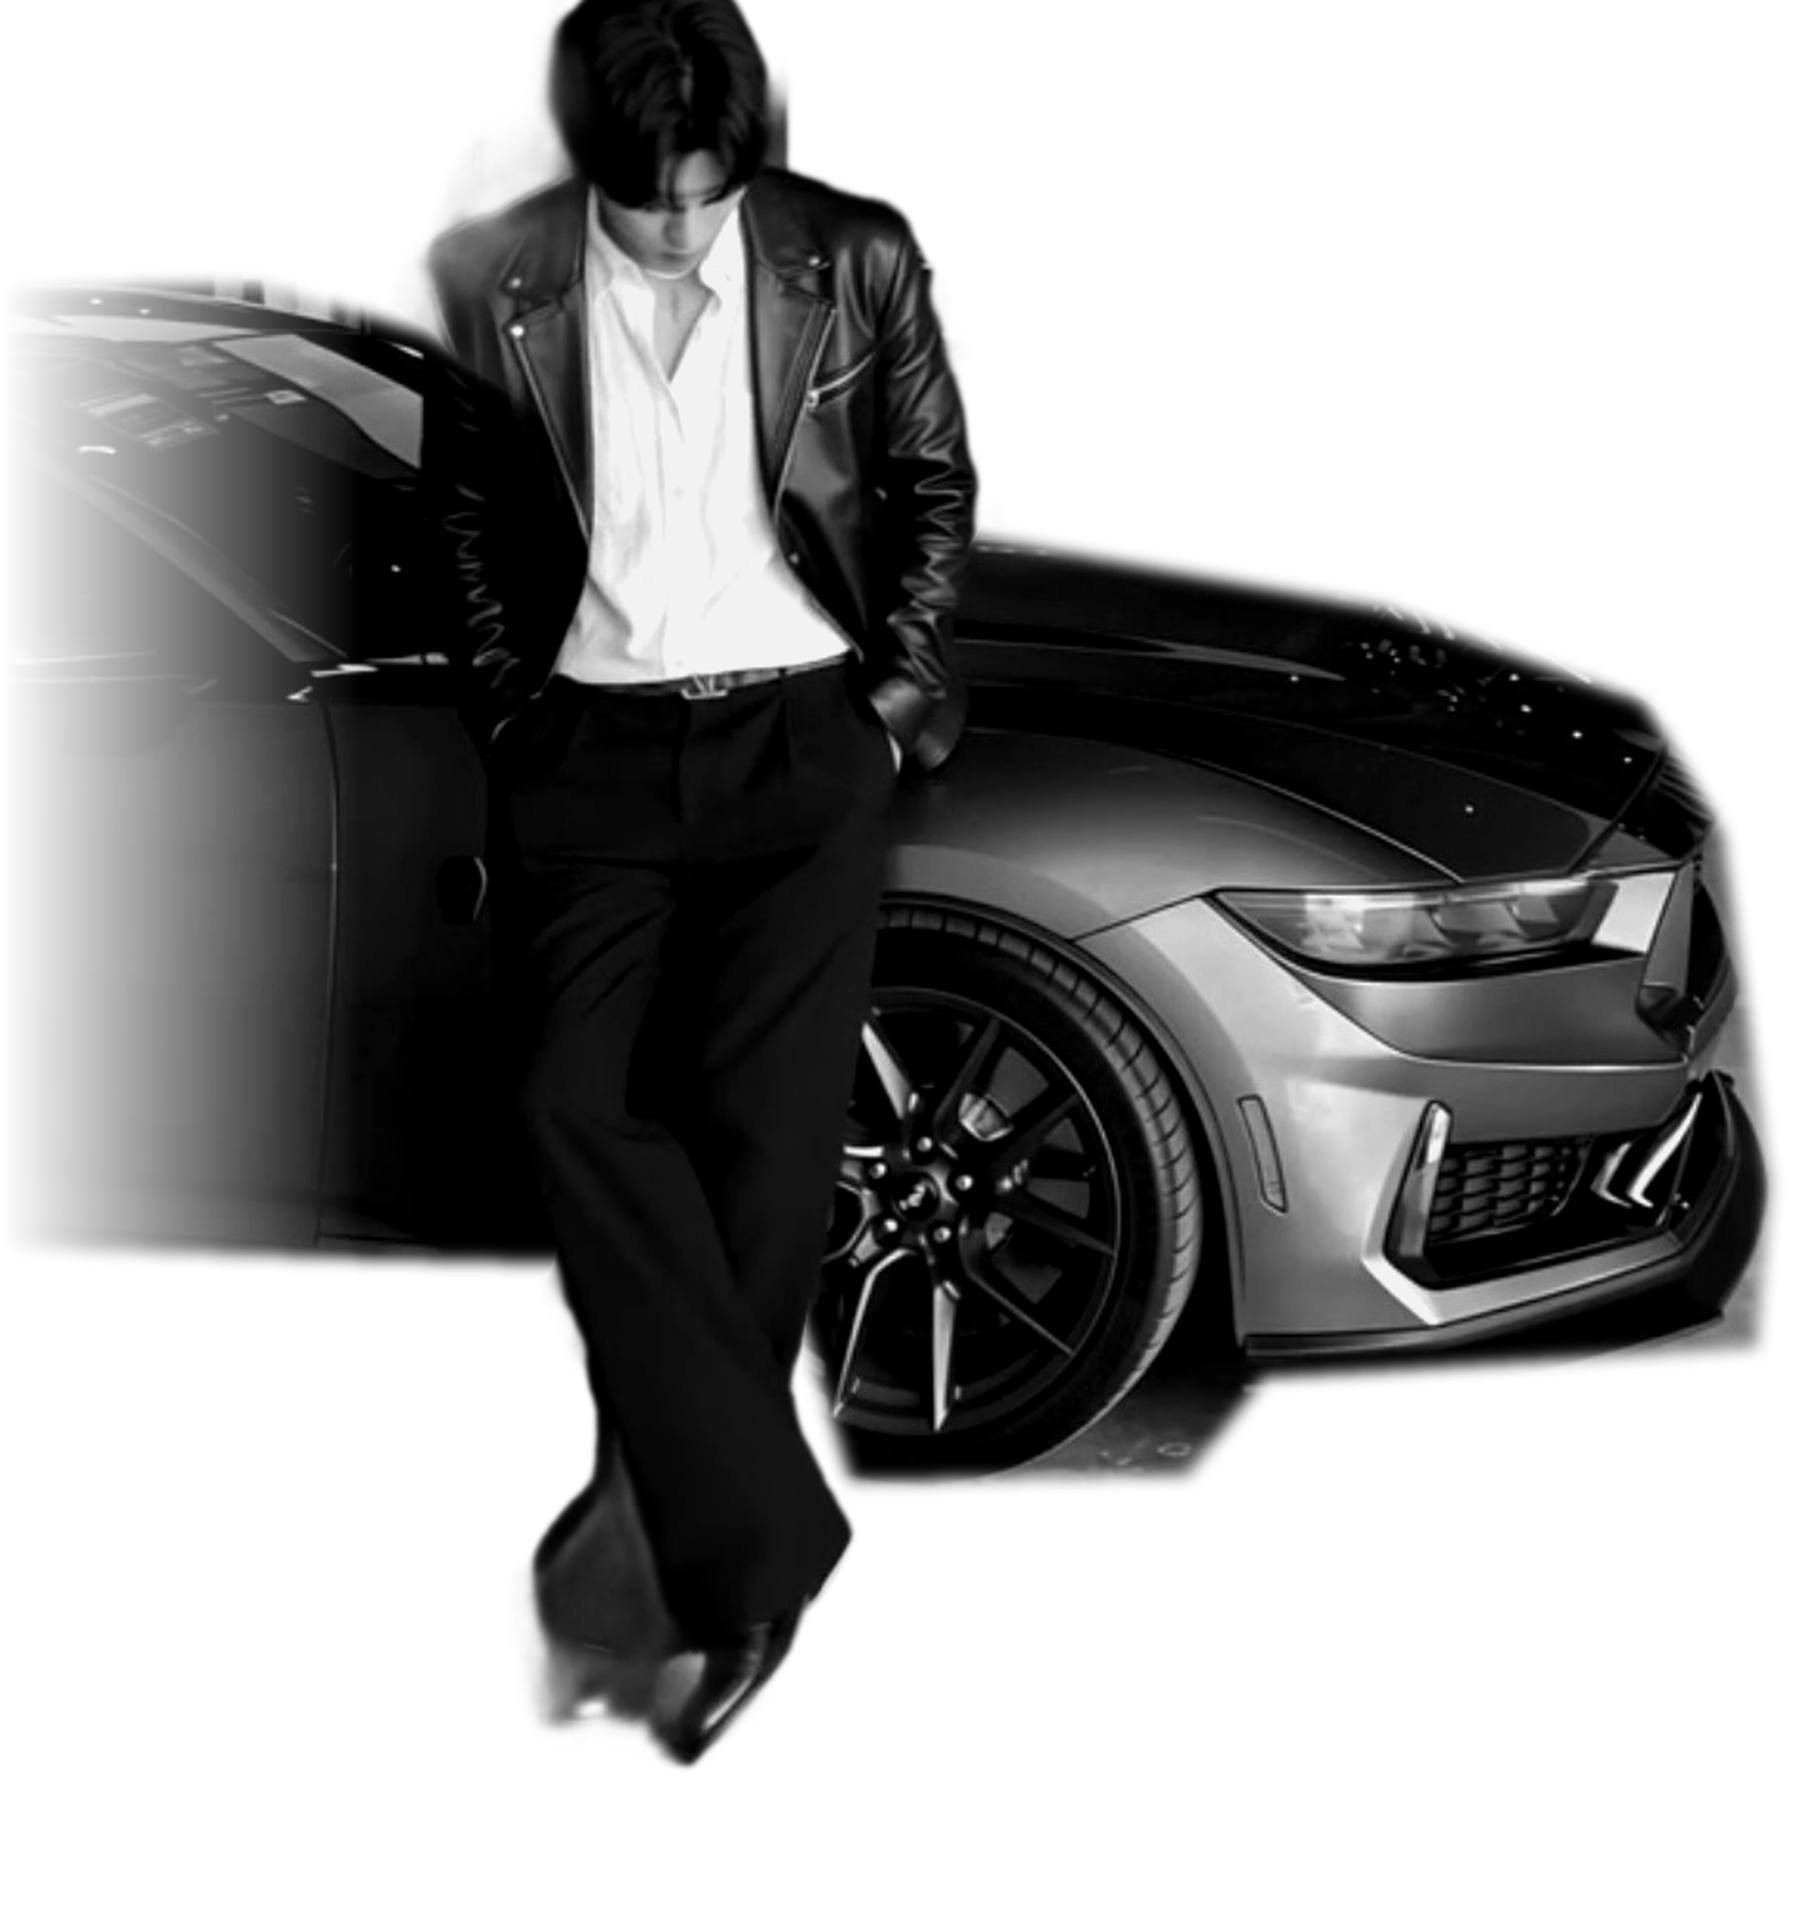
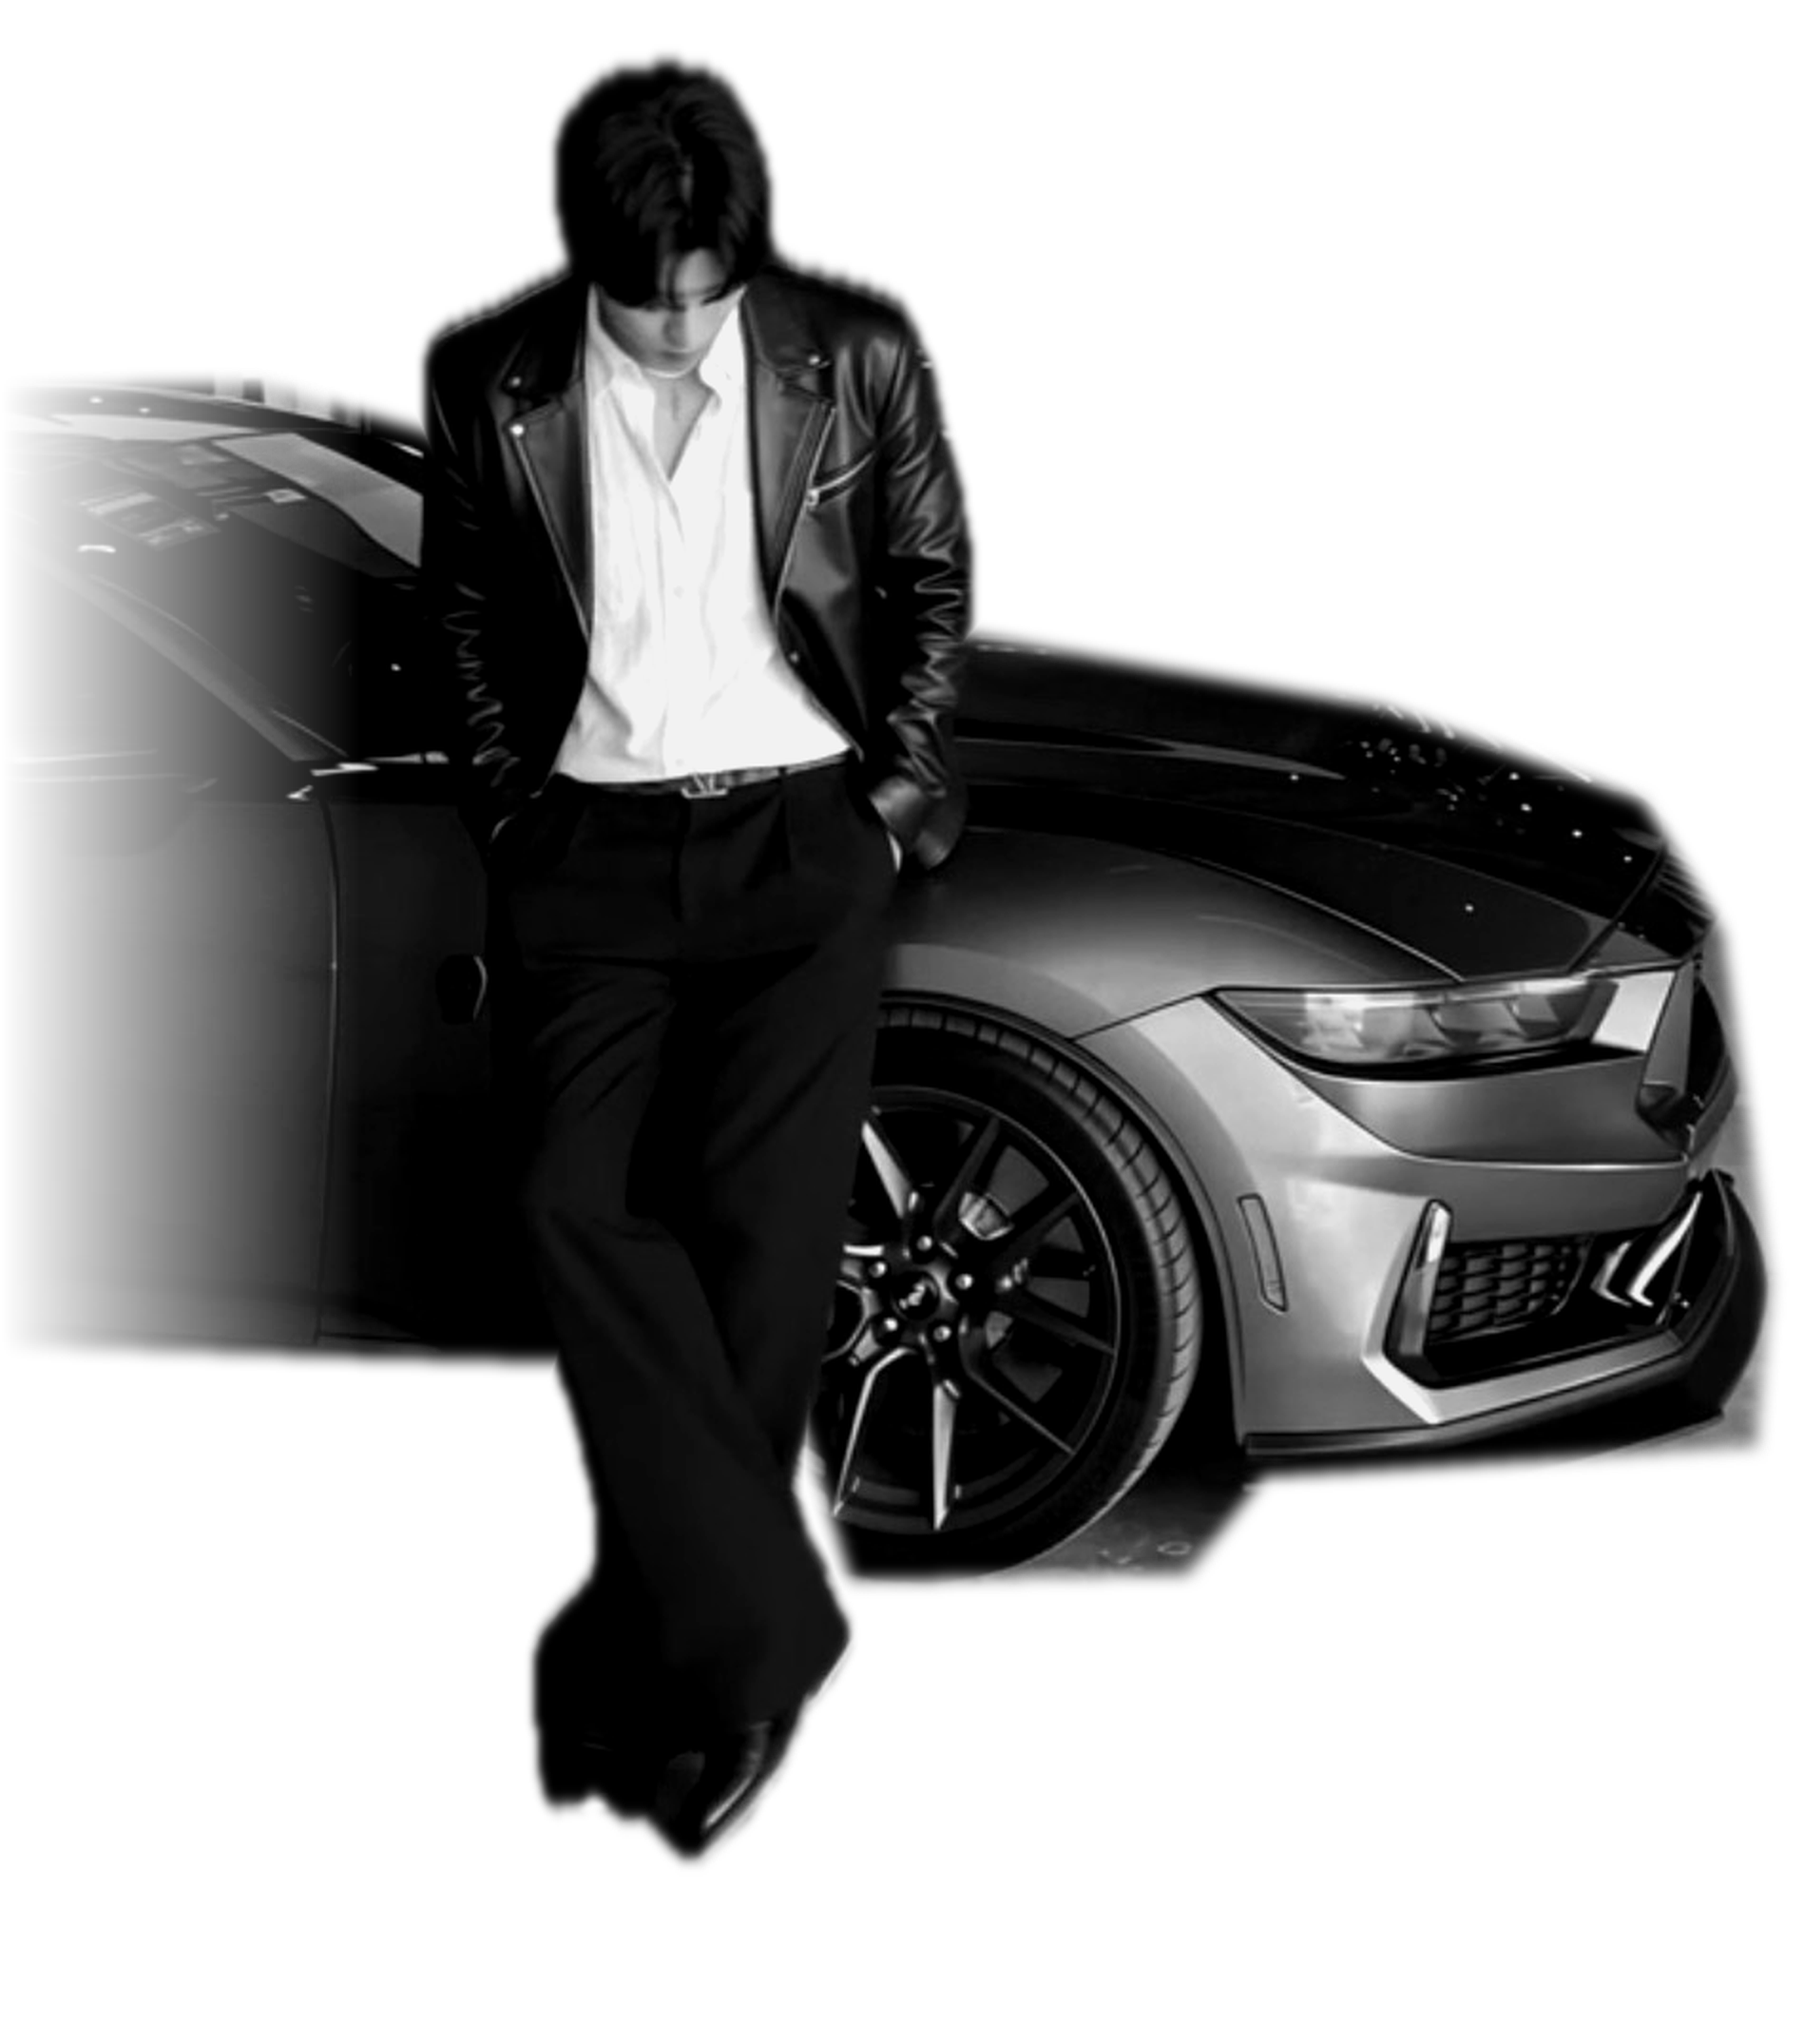
Hero: full head in the cutout, headline lines aligned
Claude-Session: https://claude.ai/code/session_01HHCRrWXM9DUkcCRJsxLhcr

Changed region(s): [[0.0, 0.0, 0.9947, 0.9338], [0.1243, 0.3113, 0.2798, 0.4046]]

diff --git a/index.html b/index.html
@@ -49,7 +49,8 @@ img,video,canvas{display:block}
 .hero-type{position:absolute;left:0;right:0;top:15vh;text-align:center;font-weight:700;font-size:clamp(54px,12.4vw,250px);line-height:.8;letter-spacing:-.045em;white-space:nowrap;will-change:transform}
 .hero-type span{display:block}
 .hero-type a{display:block;cursor:pointer}
-.hero-type .l1{word-spacing:.14em}.hero-type .l2{word-spacing:.82em;position:relative;left:-2.2vw}
+.hero-type .l1,.hero-type .l2{position:relative;left:-2.2vw}
+.hero-type .l1{word-spacing:.3em;letter-spacing:-.02em}.hero-type .l2{word-spacing:.82em}
 @media (hover:hover) and (pointer:fine){.hero-type a .l1{transition:letter-spacing .5s var(--ease)}.hero-type a:hover .l1{letter-spacing:-.03em}}
 .hero-type .l2{background:linear-gradient(180deg,#77777a 5%,rgba(150,150,152,.25) 75%,rgba(150,150,152,0) 100%);-webkit-background-clip:text;background-clip:text;color:transparent}
 .hero-me{position:absolute;left:50%;bottom:-2vh;height:min(76vh,calc(100vh - 16vw));height:min(76svh,calc(100svh - 16vw));min-height:320px;width:auto;max-width:none;transform:translateX(-40%);will-change:transform;
@@ -296,7 +297,7 @@ img,video,canvas{display:block}
 <!-- ============================== HERO -->
 <section id="hero">
   <h1 class="hero-type caps"><a data-book href="#talk" aria-label="Book a call now"><span class="l1">Book a</span><span class="l2">Call now</span></a></h1>
-  <img class="hero-me" src="img/me-car.png" alt="Yejin Lee in a leather jacket, leaning on a Mustang" width="1898" height="2024">
+  <img class="hero-me" src="img/me-car.png?v=2" alt="Yejin Lee in a leather jacket, leaning on a Mustang" width="1898" height="2128">
   <div class="hero-fade"></div>
   <div class="hero-l caps">(Scroll)&nbsp;&nbsp; Yejin Lee, 2026</div>
   <div class="hero-r caps"><span>Exited an app at 17. $90,000 in three months on TikTok Live. Founder of 1971, ranked #1 globally.</span>
